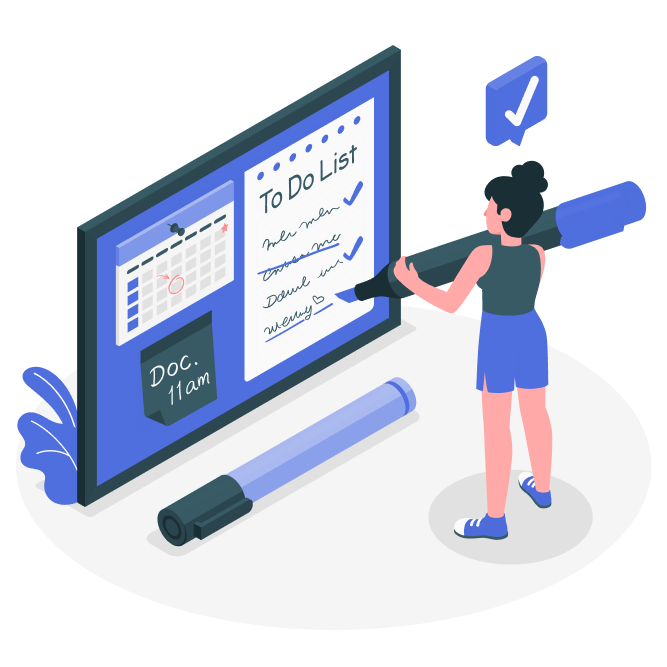
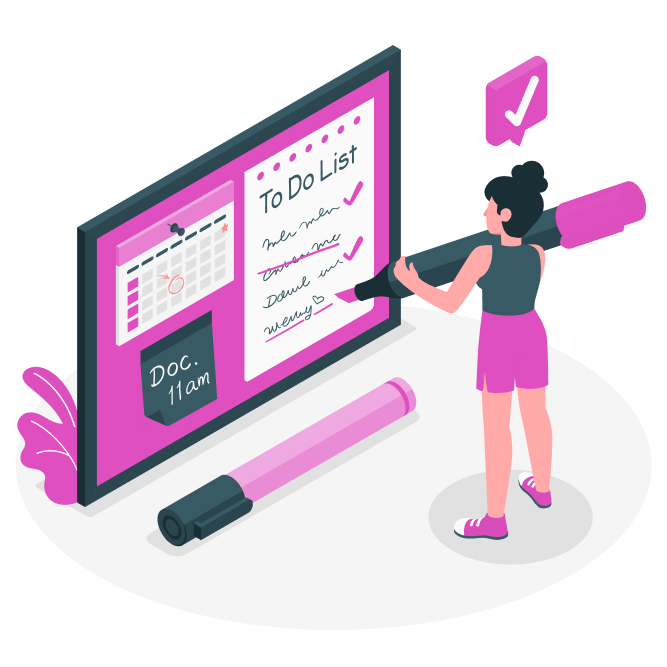
fix checklist image name

diff --git a/src/Todo.js b/src/Todo.js
@@ -54,7 +54,7 @@ export default function Todo() {
         <img
           className="imageChecklist"
           alt="imagem de uma menina marcando o checklist"
-          src="./assets/checklist_2.png"
+          src="./assets/checklist.png"
         ></img>
         <div className="checklistInfo">
           <h1>Aqui você conseguirá organizar suas atividades diárias! Vamos lá?!</h1>
